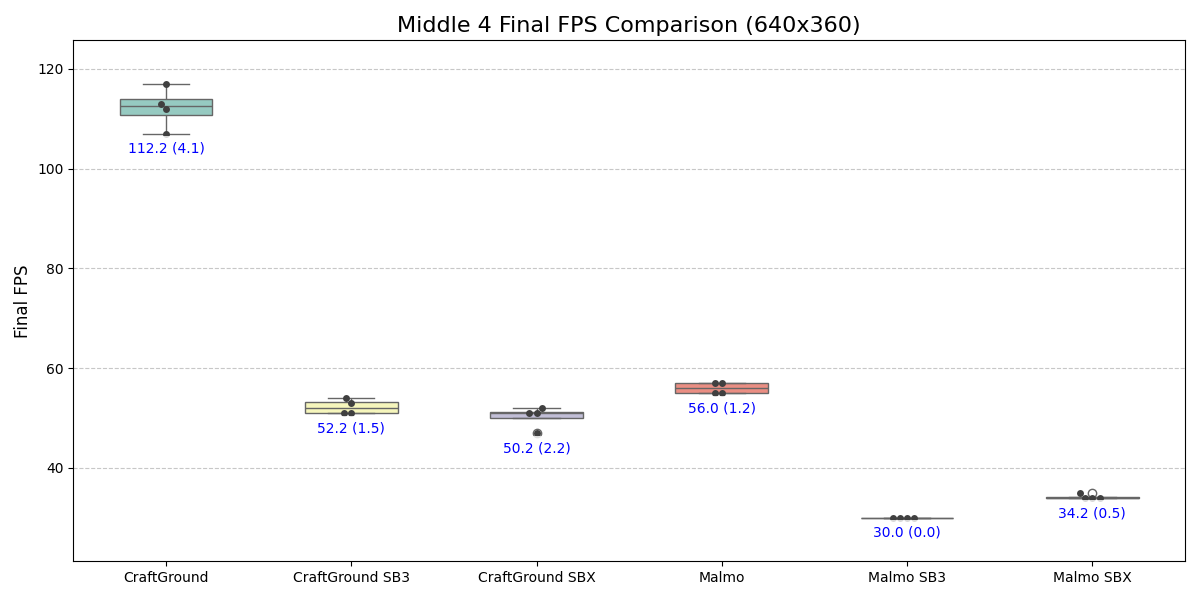
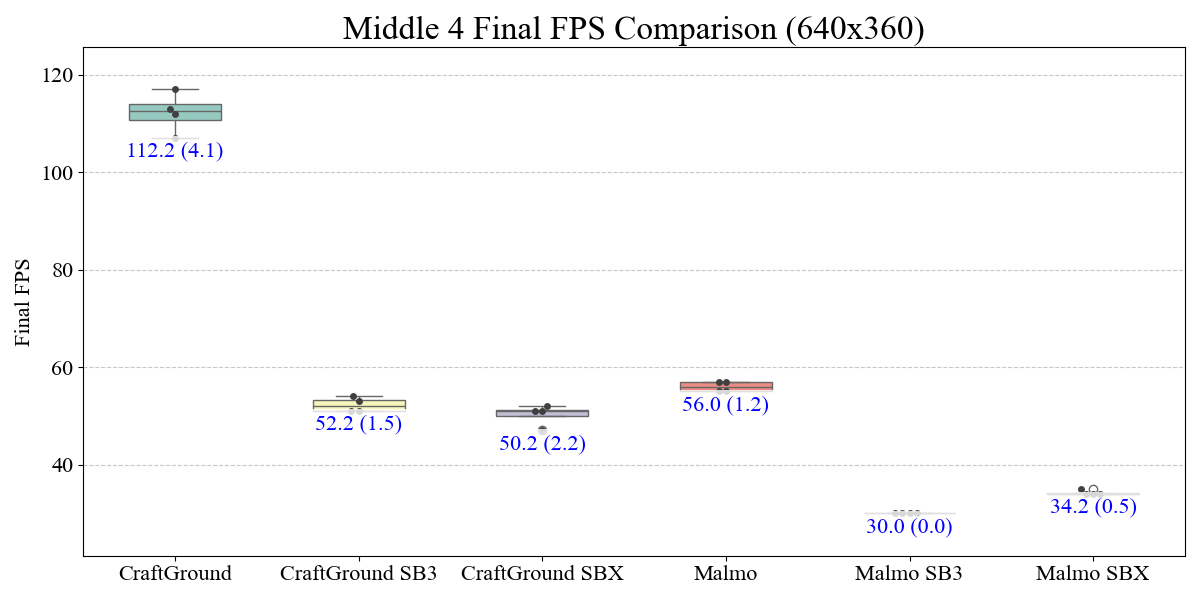
Font

diff --git a/post_processing/group_fps.py b/post_processing/group_fps.py
@@ -3,6 +3,8 @@ from matplotlib import pyplot as plt
 import pandas as pd
 import seaborn as sns
 
+plt.rcParams["font.family"] = "Times New Roman"
+
 
 def select_middlek(df, k):
     sorted_df = df.sort_values("time/fps", ascending=False)
@@ -130,9 +132,11 @@ def group_fps_topk(
         color=".25",
     )
     title_text = "Middle" if use_middle else "Top"
-    plt.title(f"{title_text} {k} Final FPS Comparison (64x64)", fontsize=16)
-    plt.xlabel("", fontsize=12)
-    plt.ylabel("Final FPS", fontsize=12)
+    plt.title(f"{title_text} {k} Final FPS Comparison (64x64)", fontsize=24)
+    plt.xlabel("", fontsize=16)
+    plt.ylabel("Final FPS", fontsize=16)
+    plt.xticks(fontsize=16)
+    plt.yticks(fontsize=16)
     current_labels = selected_64x64["group"].unique()  # Get current group names
     plt.xticks(
         ticks=range(len(current_labels)),  # Number of indices = number of groups
@@ -156,7 +160,7 @@ def group_fps_topk(
             min_fps - offset,
             f"{avg_fps:.1f} ({std_fps:.1f})",
             ha="center",
-            fontsize=10,
+            fontsize=16,
             color="blue",
             bbox=dict(facecolor="white", alpha=0.8, edgecolor="none"),
         )
@@ -181,9 +185,11 @@ def group_fps_topk(
         y="time/fps",
         color=".25",
     )
-    plt.title(f"{title_text} {k} Final FPS Comparison (640x360)", fontsize=16)
-    plt.xlabel("", fontsize=12)
-    plt.ylabel("Final FPS", fontsize=12)
+    plt.title(f"{title_text} {k} Final FPS Comparison (640x360)", fontsize=24)
+    plt.xlabel("", fontsize=16)
+    plt.ylabel("Final FPS", fontsize=16)
+    plt.xticks(fontsize=16)
+    plt.yticks(fontsize=16)
     current_labels = selected_640x360["group"].unique()  # Get current group names
     plt.xticks(
         ticks=range(len(current_labels)),  # Number of indices = number of groups
@@ -209,7 +215,7 @@ def group_fps_topk(
             min_fps - offset,
             f"{avg_fps:.1f} ({std_fps:.1f})",
             ha="center",
-            fontsize=10,
+            fontsize=16,
             color="blue",
             bbox=dict(facecolor="white", alpha=0.8, edgecolor="none"),
         )
